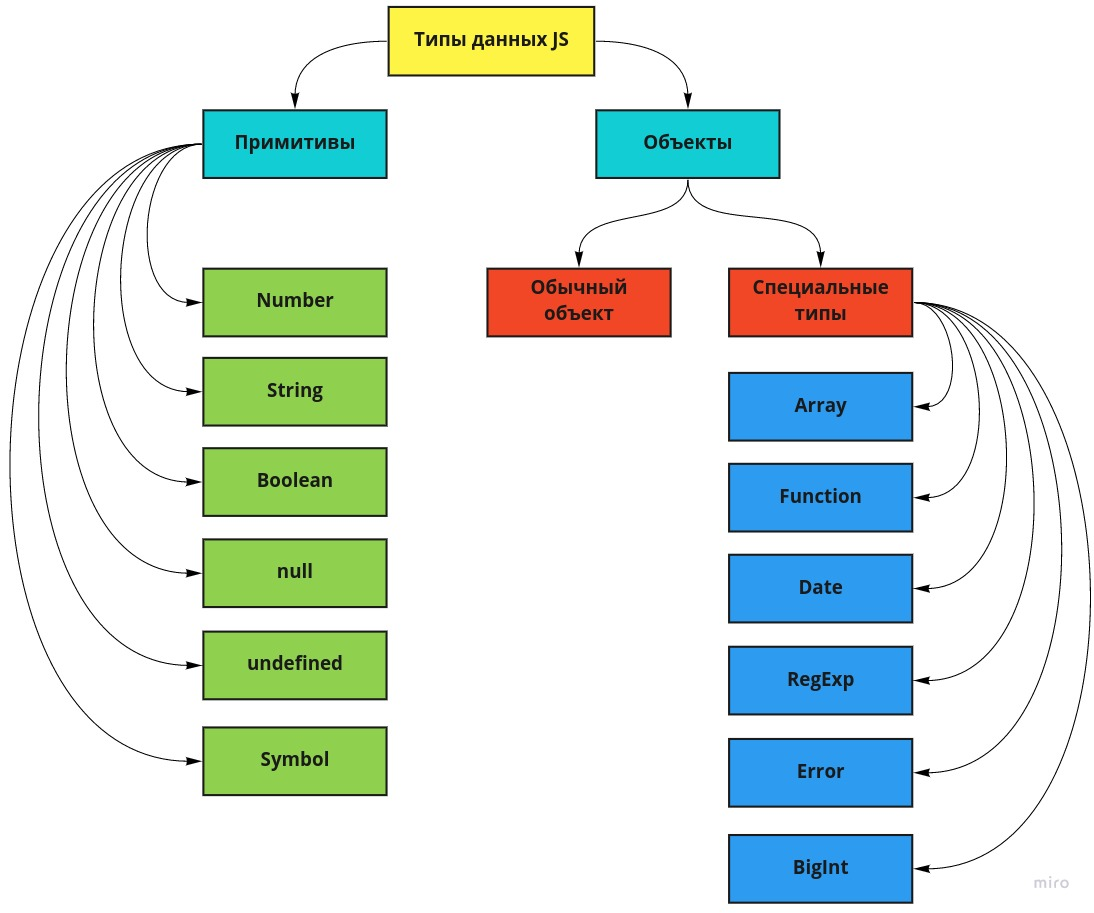
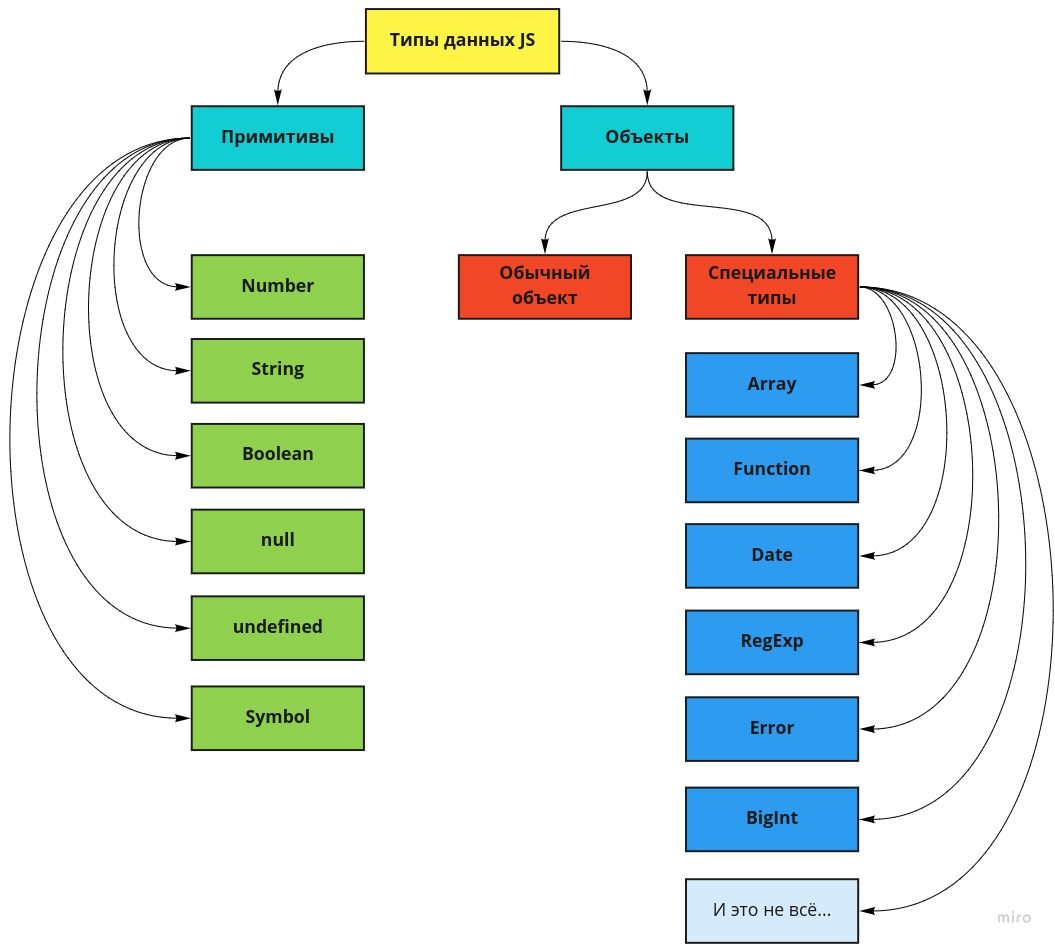
dev

diff --git a/1_JS_Basics/00.content.md b/1_JS_Basics/00.content.md
@@ -26,11 +26,11 @@
         - 3.3.5. NaN
         - 3.3.6. Infinity
     - 3.4. Object
-        - 3.4.1. RegExp
-        - 3.4.2. Date
-        - 3.4.3. Error
-        - 3.4.4. Function (объекты высшего порядка)
-        - 3.4.5. Array
+        - 3.4.1. Date
+        - 3.4.2. Function (объекты высшего порядка)
+        - 3.4.3. Array
+        - 3.4.4. Error
+        - 3.4.5. RegExp
     - 3.5. Symbol
     - 3.6. undefined
     - 3.7. null
